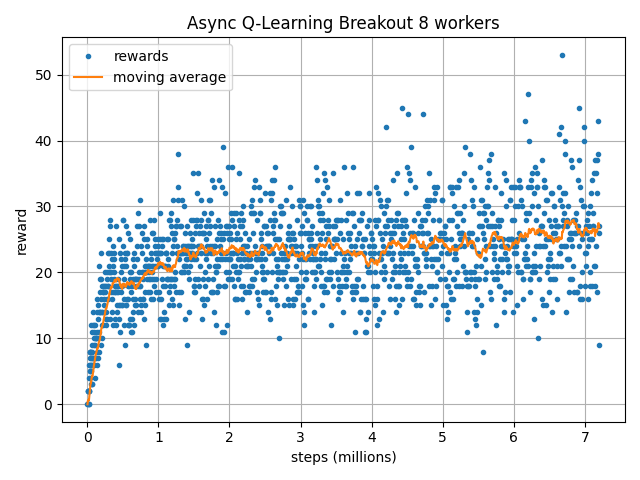
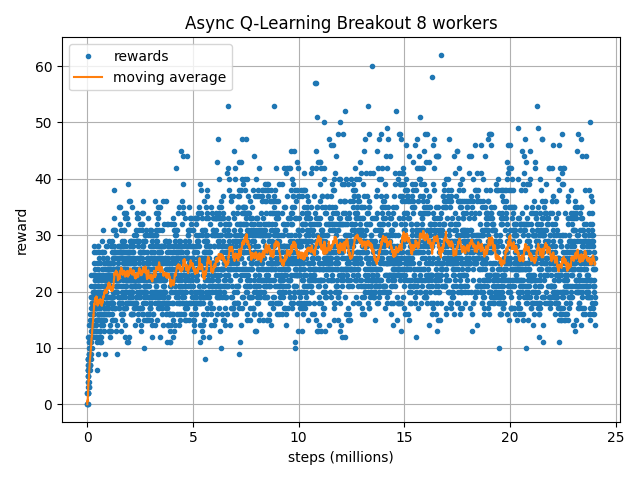
Tidy up sections of report

diff --git a/report/rl_project.tex b/report/rl_project.tex
@@ -107,8 +107,6 @@ Unlike DQN, the asynchronous methods do not require an experience replay memory 
 
 The results published by Mnih et al (2016) are impressive and show that after 10 hours training with breakout, Async Q-Learning scored 240 and A3C scored 460, whilst DQN only managed 25.
 
-TODO : Weaknesses? Check publications for A3C vs A2C, I've seen comments that say A3C does not improve on A2C, but can't find anything definitive. ??
-
 
 \section{Method}
 %A description of the method(s) used to solve your chosen problem, an explanation of how these methods work (in your own words), and an explanation of why you chose these specific methods.
@@ -194,9 +192,7 @@ The controller gives each worker a queue which allows communication between cont
 Each worker starts the atari environment and plays games of breakout.
 An episode is a complete game, and at the end of each episode the worker sends some details to the controller.
 
-The controller keeps track of the total number of episodes completed by all the workers, and uses another process to play games with a policy based on the shared value network with an epsilon of 0.01 to provide a measure of how well the policy performs.
-
-TODO : Maybe a diagram of the different processes would help here?
+The controller keeps track of the total number of episodes completed by all the workers, and uses another process to play games with a policy created from a copy of the shared value network to provide a measure of how well the training is going.
 
 
 \section{Results}
@@ -229,7 +225,7 @@ Due to the amount of time required to train multiple agent, the training process
 \end{subfigure}
 \begin{subfigure}{0.49\textwidth}
 \centering
-\includegraphics[scale=0.46]{DQNMovAvgTraining.png}
+\includegraphics[scale=0.46]{DQNMovAvgTraining.PNG}
 \captionof{figure}{10 games score moving average during training}
 \end{subfigure}
 \caption[width=0.7\textwidth]{DQN2 performances}]
@@ -252,17 +248,9 @@ From episode 1000, the agent shows steady and notable improvement, maintaining a
 
 \subsection{Async Q-Learning (Peter)}
 
-Initial results were encouraging, but the performance tended to level off quite quickly and often started to decrease.
+As expected Asynch n-step Q-Learning (using n=8) tended to learn more quickly than the single step version. So, the majority of tests were performed with the n-step vesion.
 
-The figure below shows a comparison of the single step Asynch Q-Learning and n-step, using n=8. The n-step approach showed a marked improvement over the single step. TODO : get better example image.
-
-\begin{figure}[H]
-\includegraphics[scale=0.4]{"async_q_learn_n_step"}
-\captionof{figure}{n-step better than single step}
-\end{figure}
-
-The figures below show that the rapid initial learning slows, but with management of the epsilon value in the e-greedy policy, it does continue to improve.
-TODO : Getter neater graphs with matching ranges
+The figures below show the results from a long run of approximately 48 hours. A learning rate of 0.0001 was used, and the epsilon values in the e-greedy policies was reduced over time.
 
 \begin{figure}[H]
 \centering
@@ -274,11 +262,13 @@ TODO : Getter neater graphs with matching ranges
 \begin{subfigure}{0.49\textwidth}
 \centering
 \includegraphics[scale=0.4]{"async_q_learn_best_epsilon_values"}
-\captionof{figure}{Rewards every episode for different processes}
+\captionof{figure}{Rewards every episode from different processes}
 \end{subfigure}
-\captionof{figure}{long run showing gradual improvements}
+\captionof{figure}{long run of Async n-step Q-Learning, showing gradual improvements}
+\label{fig:ASYNC1}
 \end{figure}
 
+The figures in \ref{fig:ASYNC1} (a) were generated by the stats process. This uses a copy of the latest policy to play a game. The figures in \ref{fig:ASYNC1} (b) were generated by the individual worker processes as they were playing the games and adjusting the policy.
 
 
 \section{Discussion}
@@ -333,11 +323,11 @@ Table 5.2 compounds the idea that the agent implemented in this paper learns qui
 
 \subsection{Async Q-Learning (Peter)}
 
-As expected, the Asynch n-step Q-Learning produced better results than single step. However, they did not match the results in the time scales achieved by Mnih et al (2016). On further examination of figures published by Mnih et al (2016) the scores on the data efficiency and training time graphs show that they completed approx 25 epochs in 10 hours giving scores in excess of 250. A single epoch is 4 million frames giving 100 million frames in 10 hours. In contrast our implementation for asynch Q-Learning processed about 6 million frames in 10 hours, making it approximately 16 times slower.
+The results obtained from running Async n-step Q-Learning did not match the results and time scales achieved by Mnih et al (2016). On further examination of figures published by Mnih et al (2016) the scores on the data efficiency and training time graphs show that they completed approx 25 epochs in 10 hours giving scores in excess of 250. A single epoch is 4 million frames giving 100 million frames in 10 hours. In contrast our implementation for asynch Q-Learning processed about 6 million frames in 10 hours, making it approximately 16 times slower.
 
 That being the case, it gives us an expectation of 7 days processing time to achieve a score in excess of 250. However, the results we obtained actually compare favourably with those from Mnih et al (2016), reaching average scores of 25 in less than half the number of steps.
 
-TODO : Discussion of all the different hyper parameters?
+The time taken to perform experiments made it difficult to tune hyperparmeters such as learning rate, exploration rate (epsilon), value/target network synchronisation frequency, shared value network update batch size. Hitting on the correct combination may well have given results similar to Mnig at al (2016).
 
 \section{Future Work}
 
@@ -349,6 +339,10 @@ Experience replay is a key ingredient in the success of DQN agent. In this assig
 In the A2C implementation used, the advantage function is calculated using n-step (Where n=1) returns. This only includes one step of actual rewards. Since rewards are generated from a single trajectory, they tend to have high variance but are unbiased. However, the state valuation reflects all trajectories seen so far and thus has lower variance but introduces bias. As a result, the value of n controls the bias-variance tradeoff (Graesser and Loon, 2020).Thus, using 1 step returns provides us with a tradeoff of low variance but introduces significant bias through the reliance on state value.
 
 In contrast, Generalised Advantage Estimate (GAE) overcomes the need to set n as a hyperparameter by using an exponentially-weighted average of advantages calculated with different values of n (Schulman et al., 2015). GAE provides a method by which the low-variance, high-bias one step advantage is most heavily weighted but the lower-weighted contributions from higher values of n still contribute. By tweaking the decay rate of contribution from these higher-variance estimators with higher values of n, GAE allows a more finely controlled tradeoff between bias and variance than the hard cut-off tradeoff in n-step methods (Graesser and Loon, 2020). In comparison to the 1-step method implemented, this is likely to allow a significant reduction in bias whilst controlling the increase in variance.
+
+\subsection{Async Q-Learning}
+
+Having multiple processes gives scope for using different hyperparameters at the same time. So, it would be interesting to try and produce a version of the code that attempts to tune itself.
 
 \section{Personal Experience}
 %A discussion of your personal experience with the project, such as difficulties or pleasant surprises you encountered while completing it.
